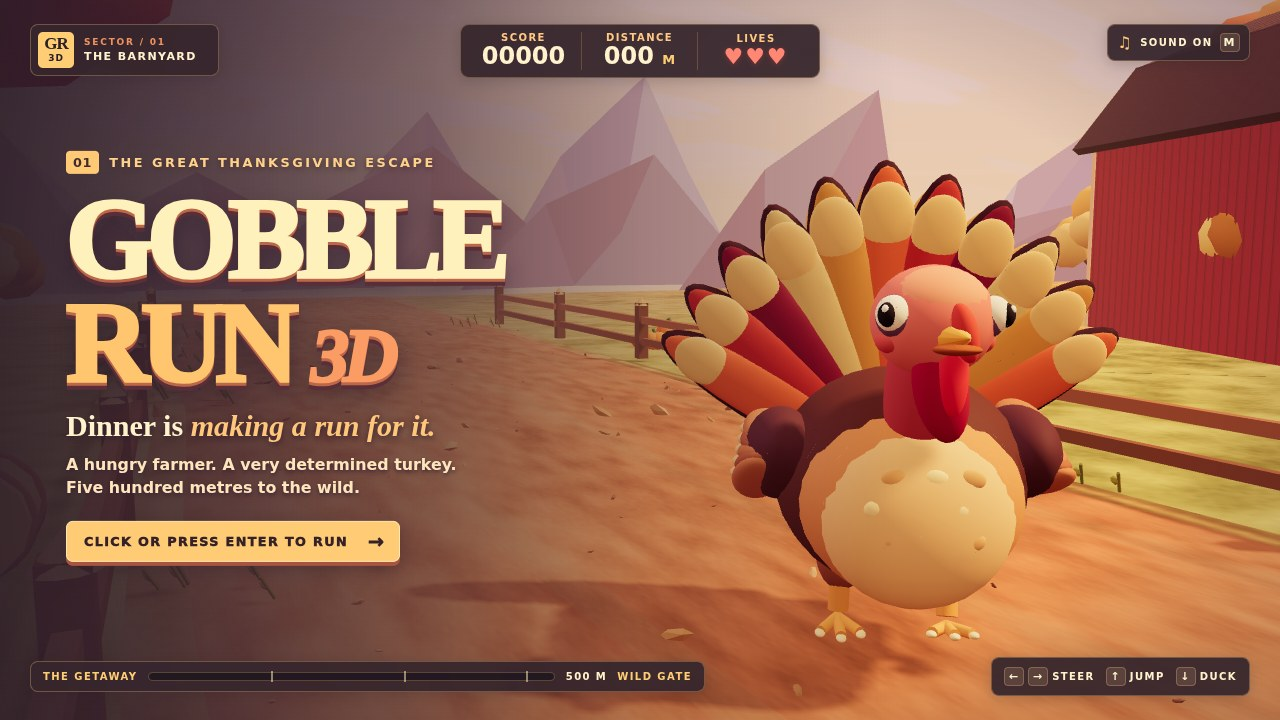
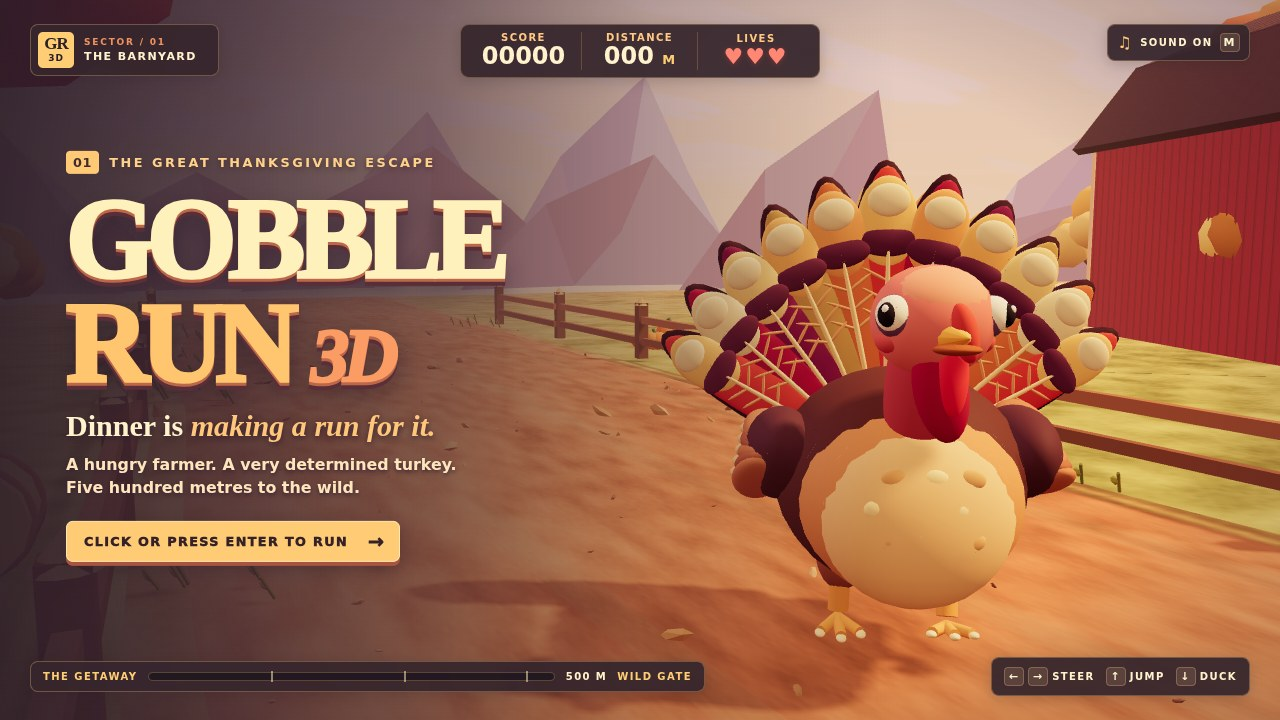
Refine the turkey plumage and write the dossier atomically

Changed region(s): [[0.5, 0.2139, 0.875, 0.5806]]

diff --git a/game/src/turkey.js b/game/src/turkey.js
@@ -2,7 +2,8 @@ import * as T from '../vendor/three.module.min.js';
 import { ball, beam, box, group, paint, piece } from './mesh.js';
 
 function plumage(parent, i, angle) {
-  const colors = ['#902f49', '#c64641', '#e36b43', '#d99547', '#eac279', '#f6ddaa'];
+  const colors = ['#933360', '#b83351', '#e34f46', '#e07a46', '#d2a157', '#f8dda5'];
+  const crest = ['#ffc56b', '#f8a75c', '#ffba64', '#ffd583', '#ffe3a2'][Math.abs(i - 5) % 5];
   const feather = group(parent, 0, 0, .12 + Math.cos(angle) * .12);
   feather.rotation.z = -angle;
   feather.rotation.x = -.13 - Math.abs(angle) * .06;
@@ -10,12 +11,23 @@ function plumage(parent, i, angle) {
   feather.scale.setScalar(size);
   ball(feather, '#4e2635', 0, 1.06, 0, .285, 1.18, .125);
   ball(feather, colors[(i + 2) % 5], 0, 1.12, .064, .255, 1.102, .095);
-  ball(feather, '#f3ac5c', 0, 1.63, .12, .237, .53, .058);
-  ball(feather, '#622b40', 0, 1.69, .151, .226, .163, .052);
-  ball(feather, colors[5], 0, 1.93, .149, .162, .135, .043);
-  ball(feather, '#f7cc83', 0, 1.09, .165, .018, .79, .019);
+  ball(feather, crest, 0, 1.63, .12, .237, .53, .058);
+  ball(feather, '#652948', 0, 1.69, .151, .226, .163, .052);
   ball(feather, colors[(i + 2) % 5], 0, 1.18, -.081, .235, 1.014, .060);
-  ball(feather, '#f4c277', 0, 1.82, -.099, .199, .265, .048);
+  ball(feather, crest, 0, 1.79, -.117, .218, .335, .060);
+  ball(feather, '#733452', 0, 1.65, -.155, .218, .106, .039);
+  for (const face of [-1, 1]) {
+    const z = face * .175;
+    ball(feather, colors[5], 0, 1.95, z, .151, .119, .044);
+    ball(feather, '#ffd48b', 0, 1.04, z, .021, .654, .019);
+    for (const side of [-1, 1]) {
+      for (let notch = 0; notch < 3; notch++) {
+        const barb = ball(feather, '#e5a063', side * .086, 1.12 + notch * .147,
+          z - face * .014, .109, .013, .015);
+        barb.rotation.z = side * .50;
+      }
+    }
+  }
 }
 
 export function makeTurkey(parent) {

diff --git a/main.ts b/main.ts
@@ -1,4 +1,4 @@
-import { cpSync, mkdirSync, writeFileSync } from 'node:fs';
+import { cpSync, mkdirSync, mkdtempSync, renameSync, rmSync, writeFileSync } from 'node:fs';
 import { resolve, join } from 'node:path';
 import { fileURLToPath } from 'node:url';
 import { buildDossier } from './vendor/makefun-game.ts';
@@ -18,7 +18,15 @@ function prepareReview(destination: string) {
     cpSync(source, join(destination, folder), { recursive: true });
   }
   const dossier = buildDossier(destination, submissionLimits);
-  writeFileSync(join(destination, 'dossier.json'), dossier);
+  // Keep a previously built dossier intact if a write is interrupted.
+  const staging = mkdtempSync(join(destination, '.dossier-'));
+  try {
+    const pending = join(staging, 'dossier.json');
+    writeFileSync(pending, dossier);
+    renameSync(pending, join(destination, 'dossier.json'));
+  } finally {
+    rmSync(staging, { recursive: true, force: true });
+  }
 }
 
 prepareReview(resolve(process.env.MAKEFUN_OUTPUT_DIR ?? '/output'));
